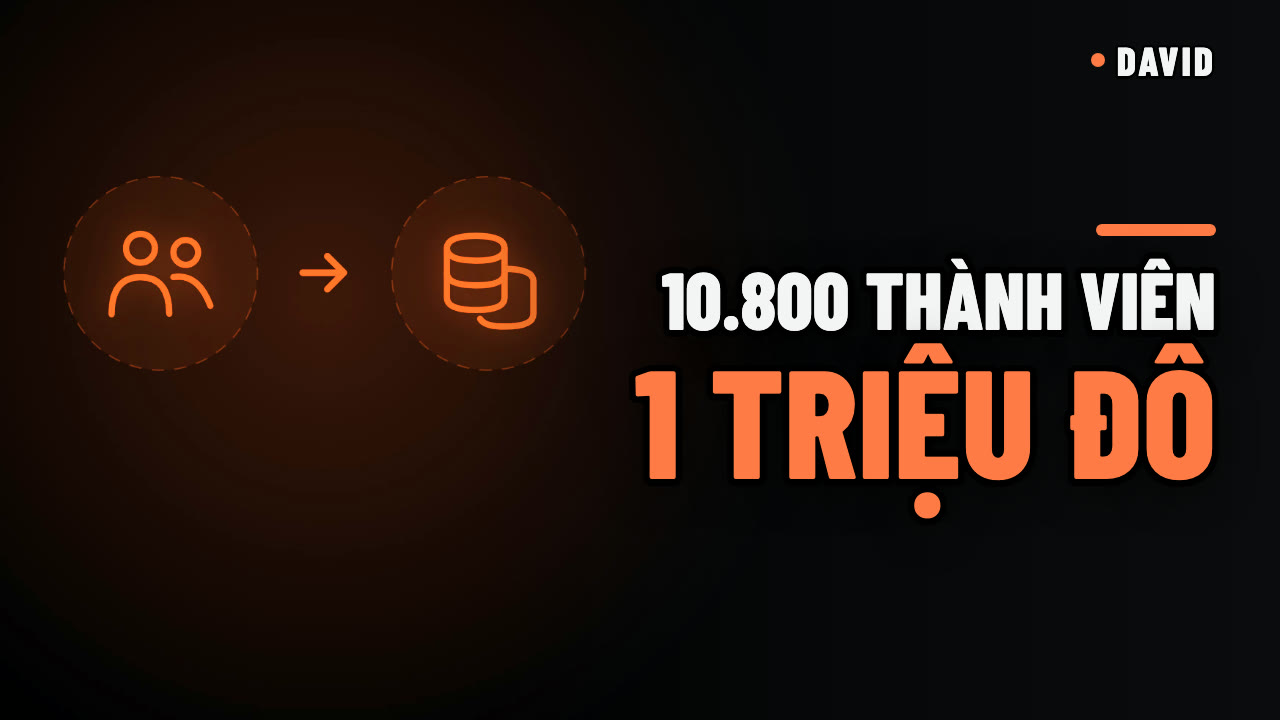
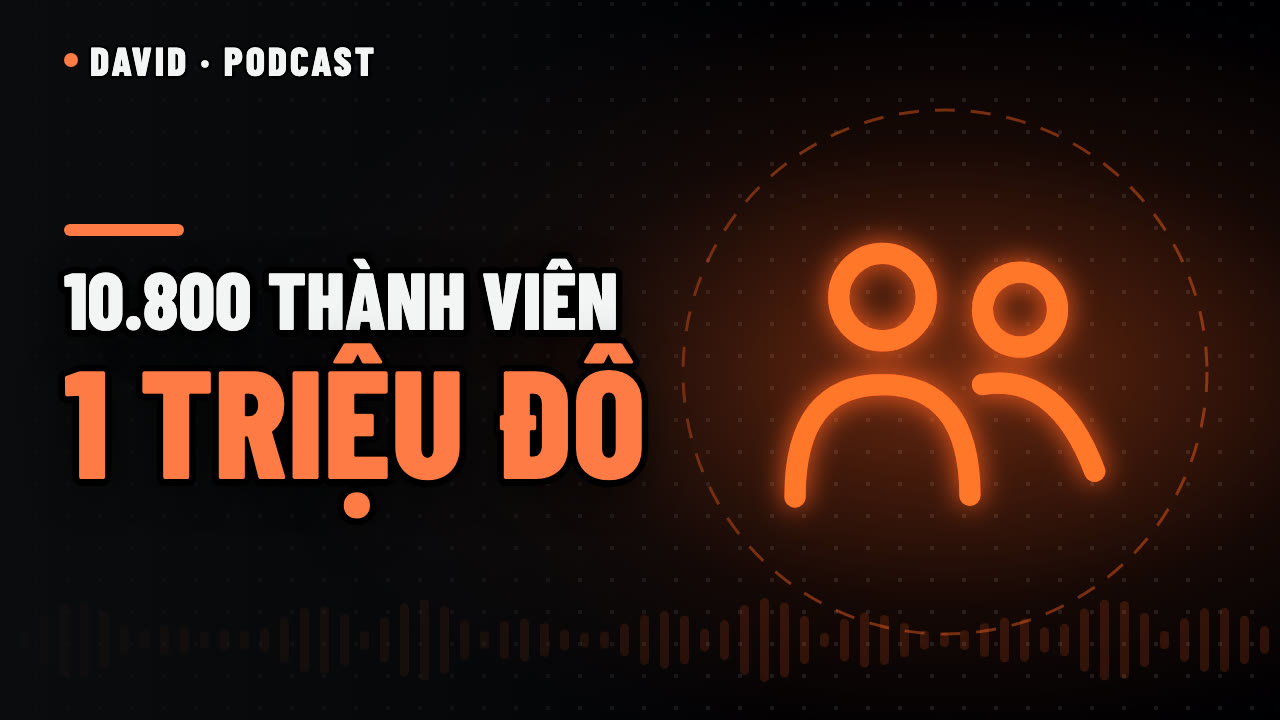
Dựng lại video Mục tiêu sứ mệnh theo skill mới: 30 cảnh, chuẩn âm lượng, bìa podcast

diff --git a/dang-lam/video-muc-tieu-su-menh/motion/src/scenes.js b/dang-lam/video-muc-tieu-su-menh/motion/src/scenes.js
@@ -11,20 +11,37 @@ export const fr = (sec) => Math.round(sec * FPS);
 export const SCENES = [
   // Bản 'ít mà sâu' (học nhịp Hieu Nguyen 2026-11-05): sơ đồ nói thay lời + ảnh thật khung bo góc. Chữ trích lời David.
   {id: 'hook', type: 'hook', start: 0, end: 3.6, props: {eyebrow: 'HÌNH HOÁ', lines: ['MỤC TIÊU', 'VÀ SỨ MỆNH']}},
-  {id: 'lang', type: 'diagram', start: 43.4, end: 49.5, props: {mode: 'tu-thanh', label: 'NÂNG CẤP LÊN', items: [{at: 43.67, icon: 'people', label: 'CỘNG ĐỒNG', sub: 'giúp đỡ nhau vô điều kiện'}, {at: 47.79, icon: 'house', label: 'LÀNG', sub: 'không bị giới hạn ở đâu cả'}]}},
+  {id: 'giup-do', type: 'illus', start: 10.9, end: 15.4, props: {mode: 'single', items: [{icon: 'heart', at: 11.3}], label: 'GIÚP ĐỠ NHAU'}},
+  {id: 'trao-co-hoi', type: 'illus', start: 33.4, end: 38.0, props: {mode: 'single', items: [{icon: 'chat', at: 33.8}], label: 'TRAO CƠ HỘI'}},
+  {id: 'dia-gioi', type: 'illus', start: 67.9, end: 71.9, props: {mode: 'single', items: [{icon: 'pin', at: 68.3}], label: 'KHÔNG ĐỊA GIỚI'}},
+  {id: 'khai-hoang', type: 'diagram', start: 72.1, end: 79.0, props: {mode: 'tu-thanh', items: [{icon: 'people', at: 74.0, label: 'DÂN LÀNG Ở ĐÂU'}, {icon: 'house', at: 76.4, label: 'LÀNG CÓ MẶT Ở ĐẤY'}]}},
+  {id: 'xa-xu', type: 'illus', start: 80.4, end: 85.0, props: {mode: 'single', items: [{icon: 'road', at: 80.8}], label: 'XA QUÊ'}},
+  {id: 'viet-kieu', type: 'illus', start: 106.6, end: 112.4, props: {mode: 'list', label: 'VIỆT KIỀU', items: [{icon: 'globe', at: 107.7, label: 'ĐỨC'}, {icon: 'globe', at: 108.7, label: 'MỸ'}, {icon: 'globe', at: 109.6, label: 'PHÁP'}]}},
+  {id: 'co-van', type: 'illus', start: 143.2, end: 148.0, props: {mode: 'single', items: [{icon: 'person', at: 143.6}], label: 'NGƯỜI CỐ VẤN'}},
+  {id: 'lang', type: 'diagram', start: 43.4, end: 49.8, props: {mode: 'tu-thanh', label: 'NÂNG CẤP LÊN', items: [{at: 43.67, icon: 'people', label: 'CỘNG ĐỒNG', sub: 'giúp đỡ nhau vô điều kiện'}, {at: 47.79, icon: 'house', label: 'LÀNG', sub: 'không bị giới hạn ở đâu cả'}]}},
   {id: 'muoi-nghin', type: 'illus', start: 155.4, end: 159.0, props: {mode: 'count', num: {to: 10800, at: 155.88, unit: 'THÀNH VIÊN', dur: 1.4}, items: [{icon: 'people', at: 155.6, label: ''}]}},
-  {id: 'trieu-do', type: 'illus', start: 173.5, end: 177.9, props: {mode: 'count', num: {to: 1000000, at: 175.5, unit: 'ĐÔ', dur: 1.6}, items: [{icon: 'coins', at: 173.04, label: 'THU NHẬP TỐI THIỂU'}]}},
+  {id: 'trieu-do', type: 'illus', start: 172.8, end: 177.9, props: {mode: 'count', num: {to: 1000000, at: 175.5, unit: 'ĐÔ', dur: 1.6}, items: [{icon: 'coins', at: 173.04, label: 'THU NHẬP TỐI THIỂU'}]}},
   {id: 'bac-ho', type: 'diagram', start: 195.6, end: 201.0, props: {mode: 'anh', items: [{at: 195.75, photo: 'bac-ho.jpg', ratio: 0.75, pos: '50% 28%', label: 'DÂN GIÀU THÌ NƯỚC MẠNH', credit: 'Wikimedia Commons · Public Domain'}]}},
   {id: 'lanh-dao', type: 'diagram', start: 209.4, end: 215.6, props: {mode: 'tang', label: 'TRONG LÀNG', items: [{at: 213.06, value: '108', label: 'VỊ LÃNH ĐẠO'}, {at: 209.72, value: '10.800', label: 'THÀNH VIÊN'}]}},
-  {id: 'cho-con', type: 'diagram', start: 266.0, end: 272.0, props: {mode: 'tu-thanh', label: 'BỐ CHO CON', items: [{at: 266.34, icon: 'money', label: 'TÀI SẢN', sub: 'vật chất'}, {at: 270.52, icon: 'book', label: 'TRI THỨC', sub: 'và mối quan hệ'}]}},
-  {id: 'trainer', type: 'illus', start: 295.0, end: 302.6, props: {mode: 'single', label: 'TỪ 2016', items: [{icon: 'megaphone', at: 295.53, label: 'TRAINER'}]}},
+  {id: 'cho-con', type: 'diagram', start: 266.0, end: 272.5, props: {mode: 'tu-thanh', label: 'BỐ CHO CON', items: [{at: 266.34, icon: 'money', label: 'TÀI SẢN', sub: 'vật chất'}, {at: 270.52, icon: 'book', label: 'TRI THỨC', sub: 'và mối quan hệ'}]}},
+  {id: 'trainer', type: 'illus', start: 295.0, end: 300.8, props: {mode: 'single', label: 'TỪ 2016', items: [{icon: 'megaphone', at: 295.53, label: 'TRAINER'}]}},
   {id: 'ccl', type: 'diagram', start: 356.4, end: 362.6, props: {mode: 'anh', items: [{at: 356.72, photo: 'ccl.jpg', label: 'CCL', sub: 'ĐÀO TẠO LÃNH ĐẠO CẤP CAO', credit: 'Cooleye · Wikimedia Commons · Public Domain'}]}},
   {id: 'singapore', type: 'diagram', start: 381.4, end: 386.4, props: {mode: 'anh', items: [{at: 381.86, photo: 'singapore.jpg', label: 'SINGAPORE', sub: 'APAC', credit: 'Bijay Chaurasia · CC BY-SA 4.0'}]}},
-  {id: 'su-menh', type: 'diagram', start: 417.0, end: 423.4, props: {mode: 'vong', items: [{at: 421.6, label: 'SỨ MỆNH'}, {at: 418.4, label: 'BÊN TRONG'}, {at: 417.0, label: 'BÊN NGOÀI'}]}},
+  {id: 'su-menh', type: 'diagram', start: 417.0, end: 423.6, props: {mode: 'vong', items: [{at: 421.6, label: 'SỨ MỆNH'}, {at: 418.4, label: 'BÊN TRONG'}, {at: 417.0, label: 'BÊN NGOÀI'}]}},
   {id: 'vung-tin', type: 'illus', start: 448.4, end: 452.4, props: {mode: 'single', label: 'CỨ VỮNG TIN', items: [{icon: 'check', at: 449.87, label: ''}]}},
+  {id: 'quan-tri', type: 'illus', start: 228.3, end: 234.2, props: {mode: 'list', label: 'QUẢN TRỊ', items: [{icon: 'person', at: 228.7, label: 'TRƯỞNG LÀNG'}, {icon: 'person', at: 229.9, label: 'TRƯỞNG THÔN'}, {icon: 'person', at: 230.6, label: 'TRƯỞNG ẤP'}, {icon: 'money', at: 231.8, label: 'KẾ TOÁN'}]}},
+  {id: 'ra-ngoai', type: 'illus', start: 247.8, end: 252.6, props: {mode: 'single', items: [{icon: 'globe', at: 248.2}], label: 'BÊN NGOÀI'}},
+  {id: 'vao-trong', type: 'card', start: 285.4, end: 294.6, props: {variant: 'steps', eyebrow: 'NHÌN VÀO BÊN TRONG', steps: [{text: 'Mình muốn làm gì', at: 288.9}, {text: 'Mình muốn trở thành ai', at: 290.3}, {text: 'Mình muốn như thế nào', at: 291.5}]}},
+  {id: 'huong-dan', type: 'illus', start: 312.6, end: 324.6, props: {mode: 'list', label: 'HƯỚNG DẪN HỌ', items: [{icon: 'brain', at: 313.2, label: 'BẢN THÂN'}, {icon: 'write', at: 316.4, label: 'QUY TRÌNH'}, {icon: 'mic', at: 320.8, label: 'CÔNG CHÚNG'}]}},
+  {id: 'le-thuoc', type: 'kinetic', start: 325.6, end: 330.0, props: {lines: ['KHÔNG CÒN PHẢI', 'LỆ THUỘC VÀO MÌNH']}},
+  {id: 'lo-trinh', type: 'illus', start: 389.9, end: 398.0, props: {mode: 'flow', items: [{icon: 'book', at: 390.4, label: 'TIẾNG ANH'}, {icon: 'check', at: 393.6, label: 'CHỨNG CHỈ'}, {icon: 'pin', at: 395.3, label: 'VỀ VIỆT NAM'}]}},
+  {id: 'ccl-vn', type: 'kinetic', start: 398.1, end: 403.4, props: {lines: ['MỘT CÁI CCL', 'Ở VIỆT NAM']}},
+  {id: 'ngau-nhien', type: 'kinetic', start: 460.8, end: 465.0, props: {lines: ['KHÔNG HỀ', 'NGẪU NHIÊN']}},
+  {id: 'goi-ten', type: 'card', start: 474.2, end: 481.4, props: {variant: 'steps', eyebrow: 'CÓ NGƯỜI GỌI TÊN CHO MÌNH', steps: [{text: 'Biết được mục tiêu', at: 476.6}, {text: 'Biết được năng lực', at: 477.6}, {text: 'Biết được kỹ năng', at: 478.6}]}},
+  {id: 'toi-la-ai', type: 'kinetic', start: 482.3, end: 486.4, props: {lines: ['TÔI LÀ AI', 'TRÊN CUỘC ĐỜI NÀY']}},
   {id: 'chot', type: 'cta', start: project.duration - 4, end: project.duration,
-    props: {text: 'Nếu thấy hữu ích, **gửi cho một người thân** đang đi tìm mục tiêu nhé!', kind: 'share'}},
-];
+    props: {text: 'Mục tiêu của bạn đã có tên chưa? Bình luận **Vấn đề** nhé', kind: 'comment'}},
+].sort((a, b) => a.start - b.start);
 
 export const COVER = null;
 export const STAGE = {show: '', title: 'Mục tiêu và sứ mệnh', speakers: [{name: 'David', role: ''}]};

diff --git a/dang-lam/video-muc-tieu-su-menh/motion/src/project.js b/dang-lam/video-muc-tieu-su-menh/motion/src/project.js
@@ -1,2 +1,2 @@
 // Dự án PODCAST — tự điền bởi podcast-style-edit/scripts/new_podcast.sh. source = sân khấu nền + tiếng (podcast_base.py)
-export default {fpsNum: 30, fpsDen: 1, width: 1920, height: 1080, duration: 499.077000, source: 'video_goc.mp4', podcast: true, tuyen: 'tam_su', ytEnd: 20};
+export default {fpsNum: 30, fpsDen: 1, width: 1920, height: 1080, duration: 499.077000, source: 'video_goc.mp4', podcast: true, tuyen: 'tam_su', ytEnd: 20, sting: false};

diff --git a/dang-lam/video-muc-tieu-su-menh/phat-hanh/phat-hanh.md b/dang-lam/video-muc-tieu-su-menh/phat-hanh/phat-hanh.md
@@ -6,8 +6,8 @@
 3. Tôi là ai trên cuộc đời này? Câu chuyện mục tiêu và sứ mệnh
 
 ## Thumbnail (1280×720) — chỉ hình của chính podcast này
-- `thumb-1.jpg` — 10.800 THÀNH VIÊN / **1 TRIỆU ĐÔ** (đi với tiêu đề 2 hoặc 3)
-- `thumb-2.jpg` — KHÔNG / **NGẪU NHIÊN** (đi với tiêu đề 1)
+- `thumb-1.jpg` — David chọn 06/11/2026: 10.800 THÀNH VIÊN / **1 TRIỆU ĐÔ**, mẫu podcast không mặt, hình cộng đồng
+- `thumb-2.jpg` — bìa mẫu cũ, không dùng
 - Nền: biểu tượng của chính podcast này (cộng đồng → thu nhập · mục tiêu)
 
 ## Mô tả bài đăng
